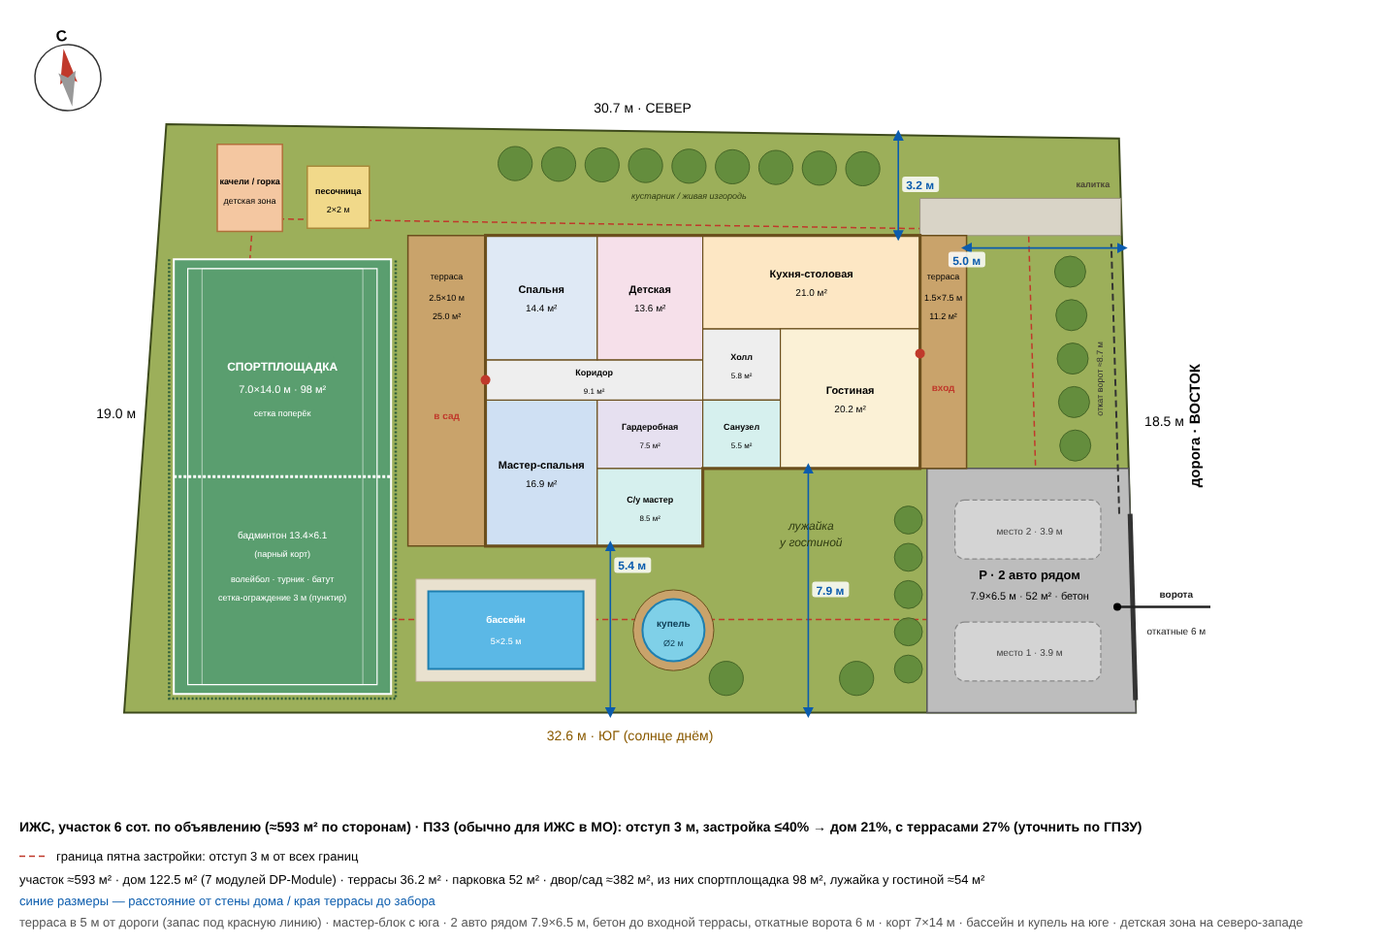
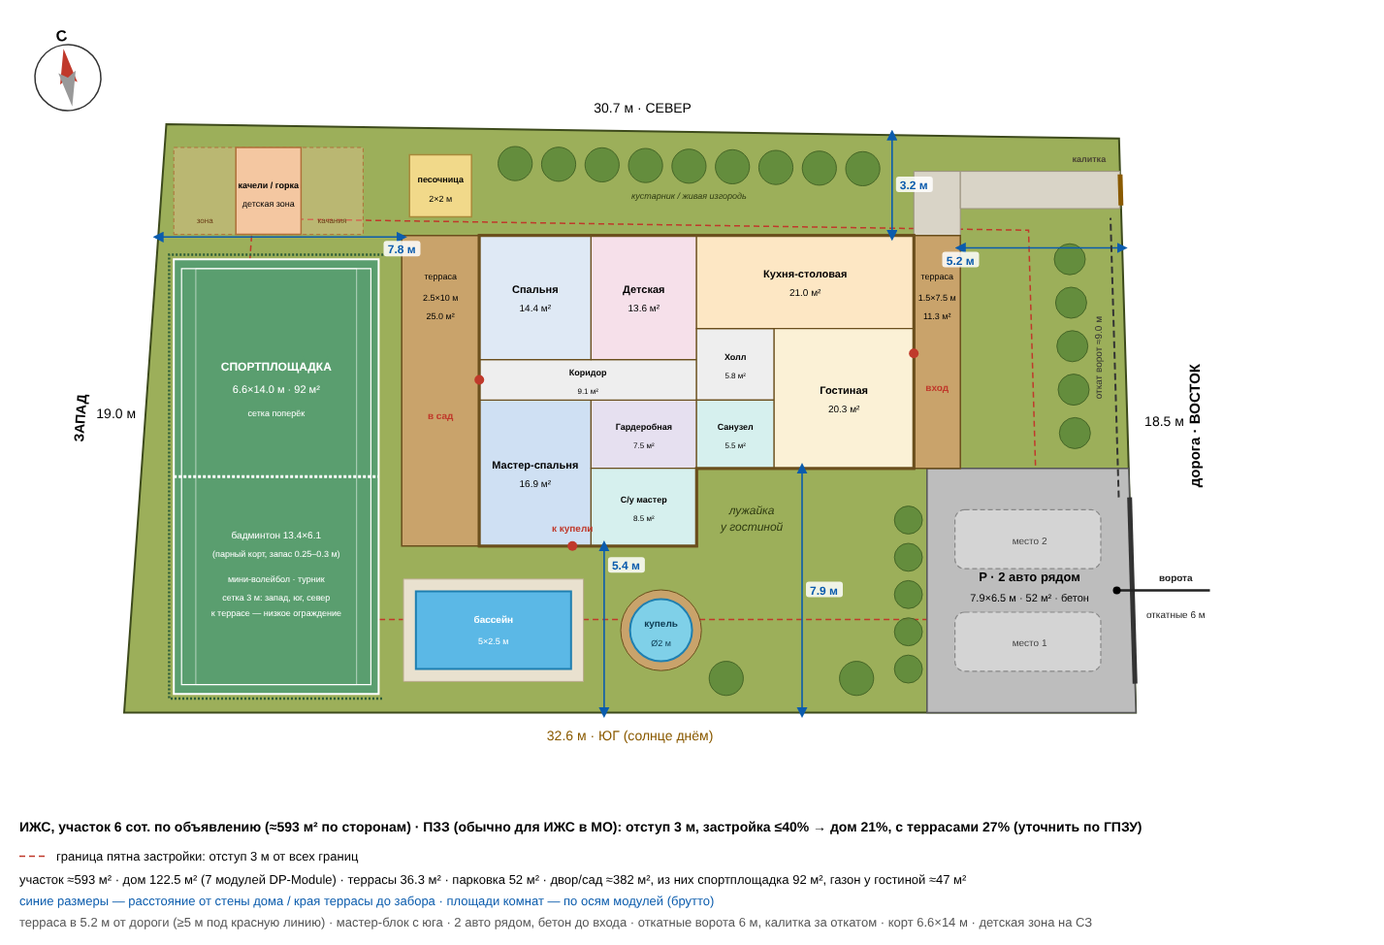
План 6 сот.: правки по независимой проверке
- откатные ворота 6 м по центру площадки, обе машины внутри створа (по 0.4 м
  до столбов, 1.4 м между машинами), откат 1.5 проёма = 9 м
- калитка в 0.4 м за зоной отката, дорожка и площадка-ступень к входной террасе
- терраса у дороги в 5.2 м (+0.2 м: угол участка снят с картинки, 1° ≈ 0.28 м)
- корт 6.6×14 м: проход 0.74 м до садовой террасы; сетка 3 м только запад/юг/север
- качели качаются З–В с зоной 2 м, песочница перенесена к садовой террасе
- дверь из мастер-спальни на юг к купели; подпись «ЗАПАД», размер терраса → запад
- газон у гостиной считается до живой изгороди (≈47 м²), подписи площадей
  округляются половинками вверх, пометка «площади брутто»

Claude-Session: https://claude.ai/code/session_017sgqLDmKspX4nF67YoQgaX

diff --git a/plan6.py b/plan6.py
@@ -23,6 +23,11 @@ def shape(a):
     return [A, B, C, D]
 
 
+def f1(v):
+    """Число с одним знаком, половинки — вверх (11.25 → 11.3)."""
+    return f"{math.floor(v * 10 + 0.5 + 1e-9) / 10:.1f}"
+
+
 def area(p):
     return abs(sum(p[i][0] * p[i - 1][1] - p[i - 1][0] * p[i][1] for i in range(len(p)))) / 2
 
@@ -110,7 +115,8 @@ TERRACES = [
     ("терраса", 14.0, 2.5, 15.5, 10.0),        # у дороги, во всю стену гостиной и кухни-столовой (вход)
     ("терраса", -GARDEN_T, 0.0, 0.0, 10.0),    # в сад, во всю 10-метровую стену (мастер-спальня, коридор, спальня)
 ]
-DOORS = [("вход", 14.0, 6.2, 14.75, 5.0), ("в сад", 0.0, 5.35, -GARDEN_T / 2, 4.1)]
+DOORS = [("вход", 14.0, 6.2, 14.75, 5.0), ("в сад", 0.0, 5.35, -GARDEN_T / 2, 4.1),
+         ("к купели", 3.0, 0.0, 3.0, 0.45)]   # дверь из мастер-спальни на юг (к бассейну и купели)
 HOUSE_BLOCKS = [(0, 2.5, 14, 10), (0, 0, 7, 2.5)]
 
 
@@ -171,9 +177,9 @@ def max_xe(y0, lo=22.0, hi=32.0):
 
 
 # положение дома: терраса у дороги в ROAD_GAP от забора (СП 42.13330: жилой дом ≥5 м от красной линии улицы —
-# запас, если по ГПЗУ дорога окажется улицей), северная стена в NORTH_GAP от северного забора (0.2 м запаса к
-# отступу 3 м: угол участка снят с картинки объявления, уточнить по межевому плану)
-ROAD_GAP, NORTH_GAP = 5.0, 3.2
+# запас, если по ГПЗУ дорога окажется улицей; +0.2 м: угол участка снят с картинки, ошибка 1° ≈ 0.28 м у дороги),
+# северная стена в NORTH_GAP от северного забора (0.2 м запаса к отступу 3 м; уточнить по межевому плану)
+ROAD_GAP, NORTH_GAP = 5.2, 3.2
 xe, hy = 26.0, 5.0
 for _ in range(60):
     loc = place(xe, hy)
@@ -213,7 +219,7 @@ print(f"парковка: {PARK_W:g} × {PARK_D:g}–{PARK_D_MAX:.2f} м = {area
 
 # ---------- жизнь на участке (абсолютные координаты участка, м) ----------
 TW = HX0 - GARDEN_T                                   # западный край садовой террасы
-SP_L, SP_W, SP_Y0 = 14.0, 7.0, 0.6                    # спортплощадка вдоль западного забора (С–Ю, как корт)
+SP_L, SP_W, SP_Y0 = 14.0, 6.6, 0.6                    # спортплощадка вдоль западного забора (С–Ю, как корт)
 SP_X0 = math.ceil((x_west(SP_Y0 + SP_L) + 0.5) * 10) / 10   # ≥0.5 м от западного забора (сетка 3 м по забору)
 SPORT = (SP_X0, SP_Y0, SP_X0 + SP_W, SP_Y0 + SP_L)
 DECK = 0.4
@@ -222,12 +228,17 @@ POOL = (_px0, 1.4, _px0 + 5.0, 1.4 + 2.5)             # чаша 5 × 2.5 м, н
 TUB_DECK = 0.3
 TUB = (POOL[2] + DECK + 1.2 + 1.0 + TUB_DECK, (POOL[1] + POOL[3]) / 2, 1.0)   # купель Ø2 м у мастер-блока
 # детская зона на северо-западе: у садовой террасы, вдали от машин, воды и дороги; качели осью качания З–В
-SWING = (3.0, SPORT[3] + 0.9, 5.1, SPORT[3] + 0.9 + 2.8)                       # качели/горка 2.1 × 2.8 м
-SAND = (5.9, SPORT[3] + 1.0, 7.9, SPORT[3] + 1.0 + 2.0)                         # песочница 2 × 2 м
+SWING = (3.6, SPORT[3] + 0.8, 5.7, SPORT[3] + 0.8 + 2.8)                       # качели/горка 2.1 × 2.8 м (балка С–Ю)
+SWING_ZONE = (SWING[0] - 2.0, SWING[1], SWING[2] + 2.0, SWING[3])                # зона качания 2 м на запад и восток
+SAND = (HX0 - GARDEN_T + 0.25, HY0 + 10.6, HX0 - GARDEN_T + 2.25, HY0 + 12.6)   # песочница 2 × 2 м у садовой террасы
 # откатные ворота: проём 6 м у южного угла, откат ≈1.45 проёма вдоль забора на север; калитка — за зоной отката
-GATE_Y0, GATE_W = 0.4, 6.0
-GATE_ROLL = (GATE_Y0 + GATE_W, GATE_Y0 + GATE_W + 1.45 * GATE_W)
-PATH = (xe, HY0 + 10.0, x_road(HY0 + 11.2), HY0 + 11.2)                        # дорожка калитка -> входная терраса
+GATE_W = 6.0
+GATE_Y0 = (HY0 + 2.5 - GATE_W) / 2                                             # проём по центру площадки
+GATE_ROLL = (GATE_Y0 + GATE_W, GATE_Y0 + GATE_W + 1.5 * GATE_W)
+CARS = (GATE_Y0 + 0.4 + 0.95, GATE_Y0 + GATE_W - 0.4 - 0.95)                    # оси машин: по 0.4 м до столбов
+WICKET = (GATE_ROLL[1] + 0.4, GATE_ROLL[1] + 1.4)                              # калитка 1 м за зоной отката
+PATH = (xe + 1.5, WICKET[0] - 0.1, x_road(WICKET[1] + 0.1), WICKET[1] + 0.1)   # дорожка от калитки (1.2 м)
+LANDING = (xe, HY0 + 10.0, xe + 1.5, PATH[3])                                  # площадка-ступень у входной террасы
 
 OBJ = {
     "дом (основной объём)": lrect(*HOUSE_BLOCKS[0]),
@@ -241,6 +252,8 @@ OBJ = {
     "песочница": xyrect(*SAND),
     "качели/горка": xyrect(*SWING),
     "дорожка": xyrect(*PATH),
+    "площадка у террасы": xyrect(*LANDING),
+    "зона качания": xyrect(*SWING_ZONE),
 }
 
 # ---------- SVG ----------
@@ -279,7 +292,7 @@ for name, tx0, ty0, tx1, ty1 in TERRACES:
     c = local((tx0 + tx1) / 2, ty1 - 1.6)
     ROOMS_SVG.append(text((c[0], c[1] + 0.2), name, 9))
     ROOMS_SVG.append(text((c[0], c[1] - 0.5), f"{abs(tx1 - tx0):g}×{abs(ty1 - ty0):g} м", 9))
-    ROOMS_SVG.append(text((c[0], c[1] - 1.1), f"{abs((tx1 - tx0) * (ty1 - ty0)):.1f} м²", 9))
+    ROOMS_SVG.append(text((c[0], c[1] - 1.1), f"{f1(abs((tx1 - tx0) * (ty1 - ty0)))} м²", 9))
 ROOMS_SVG.append(poly_svg(HOUSE, fill="#f3e6c8", stroke="#6b4f1d", stroke_width=3))
 for name, rx0, ry0, rx1, ry1, col in ROOMS:
     ROOMS_SVG.append(poly_svg(lrect(rx0, ry0, rx1, ry1), fill=col, stroke="#6b4f1d", stroke_width=1.2))
@@ -289,7 +302,7 @@ for name, rx0, ry0, rx1, ry1, col in ROOMS:
     a = abs((rx1 - rx0) * (ry1 - ry0))
     fs = 11 if a > 12 else 9
     ROOMS_SVG.append(text((c[0], c[1] + 0.15), name, fs, font_weight="bold"))
-    ROOMS_SVG.append(text((c[0], c[1] - 0.45), f"{a:.1f} м²", fs - 1))
+    ROOMS_SVG.append(text((c[0], c[1] - 0.45), f"{f1(a)} м²", fs - 1))
 for name, X, Y, LX, LY in DOORS:
     dx, dy = sv(local(X, Y))
     ROOMS_SVG.append(f'<circle cx="{dx:.1f}" cy="{dy:.1f}" r="5" fill="#c0392b"/>')
@@ -318,6 +331,7 @@ def ray_to_fence(p, d):
 
 
 DIMS = [  # (точка в координатах дома, направление[, подпись снизу]) — от стены/террасы до забора
+    ((-GARDEN_T, 9.95), (-1, 0), 1),  # садовая терраса -> западный забор (над кортом, под зоной качания)
     ((4.02, 0.0), (0, -1), 0, 0.12),  # мастер-блок -> южный забор (между бассейном и купелью, подпись у дома)
     ((10.4, 2.5), (0, -1)),           # гостиная -> южный забор (лужайка у гостиной)
     ((13.3, 10.0), (0, 1)),           # северная стена -> северный забор
@@ -351,11 +365,14 @@ def rect_svg(r, **kw):
 HALO = dict(stroke="#5a9e6f", stroke_width=4, paint_order="stroke")
 LS = []
 # дорожка от калитки ко входу
+LS.append(rect_svg(LANDING, fill="#d9d4c7", stroke="#9a927e", stroke_width=1))
 LS.append(rect_svg(PATH, fill="#d9d4c7", stroke="#9a927e", stroke_width=1))
-LS.append(text((PATH[2] - 0.9, PATH[3] + 0.35), "калитка", 9, fill="#4a4434", font_weight="bold"))
+_k1, _k2 = sv((x_road(WICKET[0]), WICKET[0])), sv((x_road(WICKET[1]), WICKET[1]))
+LS.append(f'<line x1="{_k1[0]:.1f}" y1="{_k1[1]:.1f}" x2="{_k2[0]:.1f}" y2="{_k2[1]:.1f}" stroke="#8a5a00" stroke-width="5"/>')
+LS.append(text((PATH[2] - 1.0, PATH[3] + 0.3), "калитка", 9, fill="#4a4434", font_weight="bold"))
 # кустарник / живая изгородь (центры ≥1 м от забора): у дороги (от улицы), у северного забора (за домом),
 # у южного забора на лужайке и живая изгородь между лужайкой и парковкой
-SHRUBS = ([(x_road(y) - 1.7, y, 0.5) for y in (8.6, 10.0, 11.4, 12.8, 14.2)]     # у дороги (за зоной отката ворот)
+SHRUBS = ([(x_road(y) - 1.7, y, 0.5) for y in (9.0, 10.4, 11.8, 13.2, 14.6)]     # у дороги (за зоной отката ворот)
           + [(x, y_north(x) - 1.1, 0.55) for x in (12.6, 14.0, 15.4, 16.8, 18.2, 19.6, 21.0, 22.4, 23.8)]
           + [(x, 1.1, 0.55) for x in (19.4, 23.6)]                                       # у южного забора на лужайке
           + [(park_x0 - 0.6, y, 0.45) for y in (1.4, 2.6, 3.8, 5.0, 6.2)])               # изгородь лужайка | парковка
@@ -373,13 +390,14 @@ LS.append(f'<line x1="{nx1:.1f}" y1="{ny1:.1f}" x2="{nx2:.1f}" y2="{ny2:.1f}" st
 LS.append(text((scx, scy + 3.4), "СПОРТПЛОЩАДКА", 12, fill="#fff", font_weight="bold", **HALO))
 LS.append(text((scx, scy + 2.7), f"{sx1 - sx0:.1f}×{sy1 - sy0:.1f} м · {(sx1 - sx0) * (sy1 - sy0):.0f} м²", 11, fill="#fff", **HALO))
 LS.append(text((scx, scy + 1.95), "сетка поперёк", 9, fill="#fff", **HALO))
-_net = [(sx0 - 0.15, sy1), (sx0 - 0.15, sy0 - 0.15), (sx1 + 0.15, sy0 - 0.15), (sx1 + 0.15, sy1)]
+_net = [(sx1 + 0.15, sy1 + 0.15), (sx0 - 0.15, sy1 + 0.15), (sx0 - 0.15, sy0 - 0.15), (sx1 + 0.15, sy0 - 0.15)]
 LS.append(f'<polyline points="{" ".join(f"{x:.1f},{y:.1f}" for x, y in map(sv, _net))}" fill="none" stroke="#2e5e3a" '
           f'stroke-width="2.5" stroke-dasharray="2 2"/>')
 LS.append(text((scx, scy - 2.0), "бадминтон 13.4×6.1", 10, fill="#fff", **HALO))
-LS.append(text((scx, scy - 2.6), "(парный корт)", 9, fill="#fff", **HALO))
-LS.append(text((scx, scy - 3.4), "волейбол · турник · батут", 9, fill="#fff", **HALO))
-LS.append(text((scx, scy - 4.0), "сетка-ограждение 3 м (пунктир)", 9, fill="#fff", **HALO))
+LS.append(text((scx, scy - 2.6), "(парный корт, запас 0.25–0.3 м)", 9, fill="#fff", **HALO))
+LS.append(text((scx, scy - 3.4), "мини-волейбол · турник", 9, fill="#fff", **HALO))
+LS.append(text((scx, scy - 4.0), "сетка 3 м: запад, юг, север", 9, fill="#fff", **HALO))
+LS.append(text((scx, scy - 4.5), "к террасе — низкое ограждение", 9, fill="#fff", **HALO))
 # бассейн
 x0p, y0p, x1p, y1p = POOL
 LS.append(rect_svg((x0p - DECK, y0p - DECK, x1p + DECK, y1p + DECK), fill="#e9e1cf", stroke="#b8ab8a", stroke_width=1))
@@ -394,6 +412,9 @@ LS.append(f'<circle cx="{cx:.1f}" cy="{cy:.1f}" r="{r * SC:.1f}" fill="#7fd0e8" 
 LS.append(text((X, Y + 0.1), "купель", 10, font_weight="bold", fill="#0d3b52"))
 LS.append(text((X, Y - 0.5), f"Ø{2 * r:g} м", 9, fill="#0d3b52"))
 # песочница и качели
+LS.append(rect_svg(SWING_ZONE, fill="#f4c7a1", fill_opacity="0.35", stroke="#b0703a", stroke_width=1, stroke_dasharray="4 3"))
+LS.append(text(((SWING_ZONE[0] + SWING[0]) / 2, SWING_ZONE[1] + 0.35), "зона", 8, fill="#6b3d17"))
+LS.append(text(((SWING_ZONE[2] + SWING[2]) / 2, SWING_ZONE[1] + 0.35), "качания", 8, fill="#6b3d17"))
 LS.append(rect_svg(SAND, fill="#f1d98a", stroke="#a8893a", stroke_width=1.5))
 LS.append(text(((SAND[0] + SAND[2]) / 2, (SAND[1] + SAND[3]) / 2 + 0.1), "песочница", 9, font_weight="bold"))
 LS.append(text(((SAND[0] + SAND[2]) / 2, (SAND[1] + SAND[3]) / 2 - 0.5), "2×2 м", 9))
@@ -413,6 +434,8 @@ names = list(OBJ)
 pairs, hits = 0, []
 for i in range(len(names)):
     for j in range(i + 1, len(names)):
+        if {names[i], names[j]} == {"качели/горка", "зона качания"}:
+            continue   # зона качания по определению включает сами качели
         pairs += 1
         if overlap(OBJ[names[i]], OBJ[names[j]]):
             hits.append((names[i], names[j]))
@@ -439,7 +462,7 @@ def clip_left(poly, xl):
 
 BACKYARD = area(clip_left(P, TW))
 print(f"сад западнее садовой террасы: {BACKYARD:.0f} м²")
-LAWN = (park_x0 - (TUB[0] + TUB[2] + TUB_DECK)) * park_y1   # лужайка у гостиной: между купелью и парковкой
+LAWN = (park_x0 - 0.6 - 0.45 - (TUB[0] + TUB[2] + TUB_DECK)) * park_y1 - 2 * math.pi * 0.55 ** 2   # газон у гостиной
 
 TERR_AREA = sum(abs((t[3] - t[1]) * (t[4] - t[2])) for t in TERRACES)
 FREE = area(P) - HOUSE_AREA - TERR_AREA - area(PARK)
@@ -457,7 +480,7 @@ el = [
     '<path d="M0,0 L10,5 L0,10 z" fill="#0b5cad"/></marker></defs>',
 ]
 # два машино-места (контуры авто ~4.7 × 1.9 м, носом на запад)
-for cyc in (park_y1 / 4, park_y1 * 3 / 4):
+for cyc in CARS:
     (ax, ay), (bx, by) = sv((park_x0 + 0.9, cyc + 0.95)), sv((park_x0 + 0.9 + 4.7, cyc - 0.95))
     el.append(f'<rect x="{ax:.1f}" y="{ay:.1f}" width="{bx - ax:.1f}" height="{by - ay:.1f}" rx="10" fill="#d4d4d4" '
               f'stroke="#888" stroke-width="1.2" stroke-dasharray="5 3"/>')
@@ -465,15 +488,17 @@ el += [
     *LS,
     *ROOMS_SVG,
     *DIM_SVG,
-    text((pc[0], park_y1 / 2 + 0.35), "P · 2 авто рядом", 13, font_weight="bold"),
-    text((pc[0], park_y1 / 2 - 0.3), f"{PARK_W:.1f}×{PARK_D:g} м · {area(PARK):.0f} м² · бетон", 11),
-    text((pc[0], park_y1 * 3 / 4 - 0.15), f"место 2 · {PARK_W / 2:.1f} м", 10, fill="#444"),
-    text((pc[0], park_y1 / 4 - 0.15), f"место 1 · {PARK_W / 2:.1f} м", 10, fill="#444"),
+    text((pc[0], sum(CARS) / 2 + 0.3), "P · 2 авто рядом", 13, font_weight="bold"),
+    text((pc[0], sum(CARS) / 2 - 0.35), f"{f1(PARK_W)}×{PARK_D:g} м · {area(PARK):.0f} м² · бетон", 11),
+    text((pc[0], CARS[1] - 0.15), "место 2", 10, fill="#444"),
+    text((pc[0], CARS[0] - 0.15), "место 1", 10, fill="#444"),
     text(mid(A, B, -0.9), f"{AB} м · ЮГ (солнце днём)", 14, fill="#8a5a00"),
     text(mid(C, D, 0.6), f"{CD} м · СЕВЕР", 14),
 ]
 mx, my = sv(mid(D, A))
-el.append(f'<text x="{mx - 30:.1f}" y="{my:.1f}" font-size="14" text-anchor="middle" font-family="sans-serif">{DA} м</text>')
+el.append(f'<text x="{mx - 30:.1f}" y="{my:.1f}" font-size="14" text-anchor="middle" font-family="sans-serif">{DA} м</text>'
+          f'<text x="{mx - 62:.1f}" y="{my:.1f}" font-size="14" font-weight="bold" text-anchor="middle" font-family="sans-serif" '
+          f'transform="rotate(-86 {mx - 62:.1f} {my:.1f})">ЗАПАД</text>')
 mx, my = sv(mid(B, C))
 el.append(f'<text x="{mx + 38:.1f}" y="{my:.1f}" font-size="14" text-anchor="middle" font-family="sans-serif">{BC} м</text>'
           f'<text x="{mx + 75:.1f}" y="{my:.1f}" font-size="15" font-weight="bold" text-anchor="middle" font-family="sans-serif" '
@@ -484,14 +509,14 @@ el.append(f'<line x1="{g1[0]:.1f}" y1="{g1[1]:.1f}" x2="{g2[0]:.1f}" y2="{g2[1]:
 r1, r2 = sv((x_road(GATE_ROLL[0]) - 0.35, GATE_ROLL[0])), sv((x_road(GATE_ROLL[1]) - 0.35, GATE_ROLL[1]))
 el.append(f'<line x1="{r1[0]:.1f}" y1="{r1[1]:.1f}" x2="{r2[0]:.1f}" y2="{r2[1]:.1f}" stroke="#333" stroke-width="2" stroke-dasharray="7 4"/>')
 _rm = sv((x_road(sum(GATE_ROLL) / 2) - 0.75, sum(GATE_ROLL) / 2))
-el.append(f'<text x="{_rm[0]:.1f}" y="{_rm[1]:.1f}" font-size="9" text-anchor="middle" font-family="sans-serif" fill="#333" '
+el.append(f'<text x="{_rm[0]:.1f}" y="{_rm[1]:.1f}" font-size="10" text-anchor="middle" font-family="sans-serif" fill="#333" '
           f'transform="rotate(-90 {_rm[0]:.1f} {_rm[1]:.1f})">откат ворот ≈{GATE_ROLL[1] - GATE_ROLL[0]:.1f} м</text>')
 gy = GATE_Y0 + GATE_W / 2
 e1 = sv((x_road(gy) + 2.5, gy)); e2 = sv((x_road(gy) - 0.5, gy))
 el.append(f'<line x1="{e1[0]:.1f}" y1="{e1[1]:.1f}" x2="{e2[0]:.1f}" y2="{e2[1]:.1f}" stroke="#222" stroke-width="2.5"/><circle cx="{e2[0]:.1f}" cy="{e2[1]:.1f}" r="4"/>')
 el.append(text((x_road(gy) + 1.4, gy + 0.3), "ворота", 10, fill="#222", font_weight="bold"))
 el.append(text((x_road(gy) + 1.4, gy - 0.9), f"откатные {GATE_W:g} м", 10, fill="#222"))
-_lw = ((TUB[0] + TUB[2] + TUB_DECK + park_x0 - 0.6) / 2, 5.9)
+_lw = ((TUB[0] + TUB[2] + TUB_DECK + local(10.4, 0)[0]) / 2, 6.4)   # между купелью и размерной линией
 el.append(text(_lw, "лужайка", 12, fill="#2f3b12", font_style="italic"))
 el.append(text((_lw[0], _lw[1] - 0.55), "у гостиной", 12, fill="#2f3b12", font_style="italic"))
 el.append(text((18.2, y_north(18.2) - 2.15), "кустарник / живая изгородь", 9, fill="#2f3b12", font_style="italic"))
@@ -508,13 +533,13 @@ ly = (maxy - miny) * SC + 25
 el.append(f'<line x1="20" y1="{ly - 5}" x2="50" y2="{ly - 5}" stroke="#c0392b" stroke-dasharray="6 4" stroke-width="1.5"/>')
 el.append(f'<text x="58" y="{ly}" font-size="13" font-family="sans-serif">граница пятна застройки: отступ {SETBACK:g} м от всех границ</text>')
 el.append(f'<text x="20" y="{ly + 24}" font-size="13" font-family="sans-serif">участок ≈{area(P):.0f} м² · дом {HOUSE_AREA:.1f} м² (7 модулей DP-Module) · '
-          f'террасы {TERR_AREA:.1f} м² · парковка {area(PARK):.0f} м² · двор/сад ≈{FREE:.0f} м², из них спортплощадка {SP_W * SP_L:.0f} м², лужайка у гостиной ≈{LAWN:.0f} м²</text>')
+          f'террасы {f1(TERR_AREA)} м² · парковка {area(PARK):.0f} м² · двор/сад ≈{FREE:.0f} м², из них спортплощадка {SP_W * SP_L:.0f} м², газон у гостиной ≈{LAWN:.0f} м²</text>')
 el.append(f'<text x="20" y="{ly - 30}" font-size="14" font-weight="bold" font-family="sans-serif">ИЖС, участок 6 сот. по объявлению (≈593 м² по сторонам) · '
           f'ПЗЗ (обычно для ИЖС в МО): отступ 3 м, застройка ≤40% → дом {COV_H:.0f}%, с террасами {COV_T:.0f}% (уточнить по ГПЗУ)</text>')
-el.append(f'<text x="20" y="{ly + 46}" font-size="13" fill="#0b5cad" font-family="sans-serif">синие размеры — расстояние от стены дома / края террасы до забора</text>')
-el.append(f'<text x="20" y="{ly + 68}" font-size="13" fill="#555" font-family="sans-serif">терраса в {ROAD_GAP:g} м от дороги (запас под красную линию) · '
-          f'мастер-блок с юга · 2 авто рядом {PARK_W:.1f}×{PARK_D:g} м, бетон до входной террасы, откатные ворота {GATE_W:g} м · '
-          f'корт 7×14 м · бассейн и купель на юге · детская зона на северо-западе</text>')
+el.append(f'<text x="20" y="{ly + 46}" font-size="13" fill="#0b5cad" font-family="sans-serif">синие размеры — расстояние от стены дома / края террасы до забора · площади комнат — по осям модулей (брутто)</text>')
+el.append(f'<text x="20" y="{ly + 68}" font-size="13" fill="#555" font-family="sans-serif">терраса в {ROAD_GAP:g} м от дороги (≥5 м под красную линию) · '
+          f'мастер-блок с юга · 2 авто рядом, бетон до входа · откатные ворота {GATE_W:g} м, калитка за откатом · '
+          f'корт {SP_W:g}×{SP_L:g} м · детская зона на СЗ</text>')
 el.append("</svg>")
 open("plan6.svg", "w").write("\n".join(el))
 
